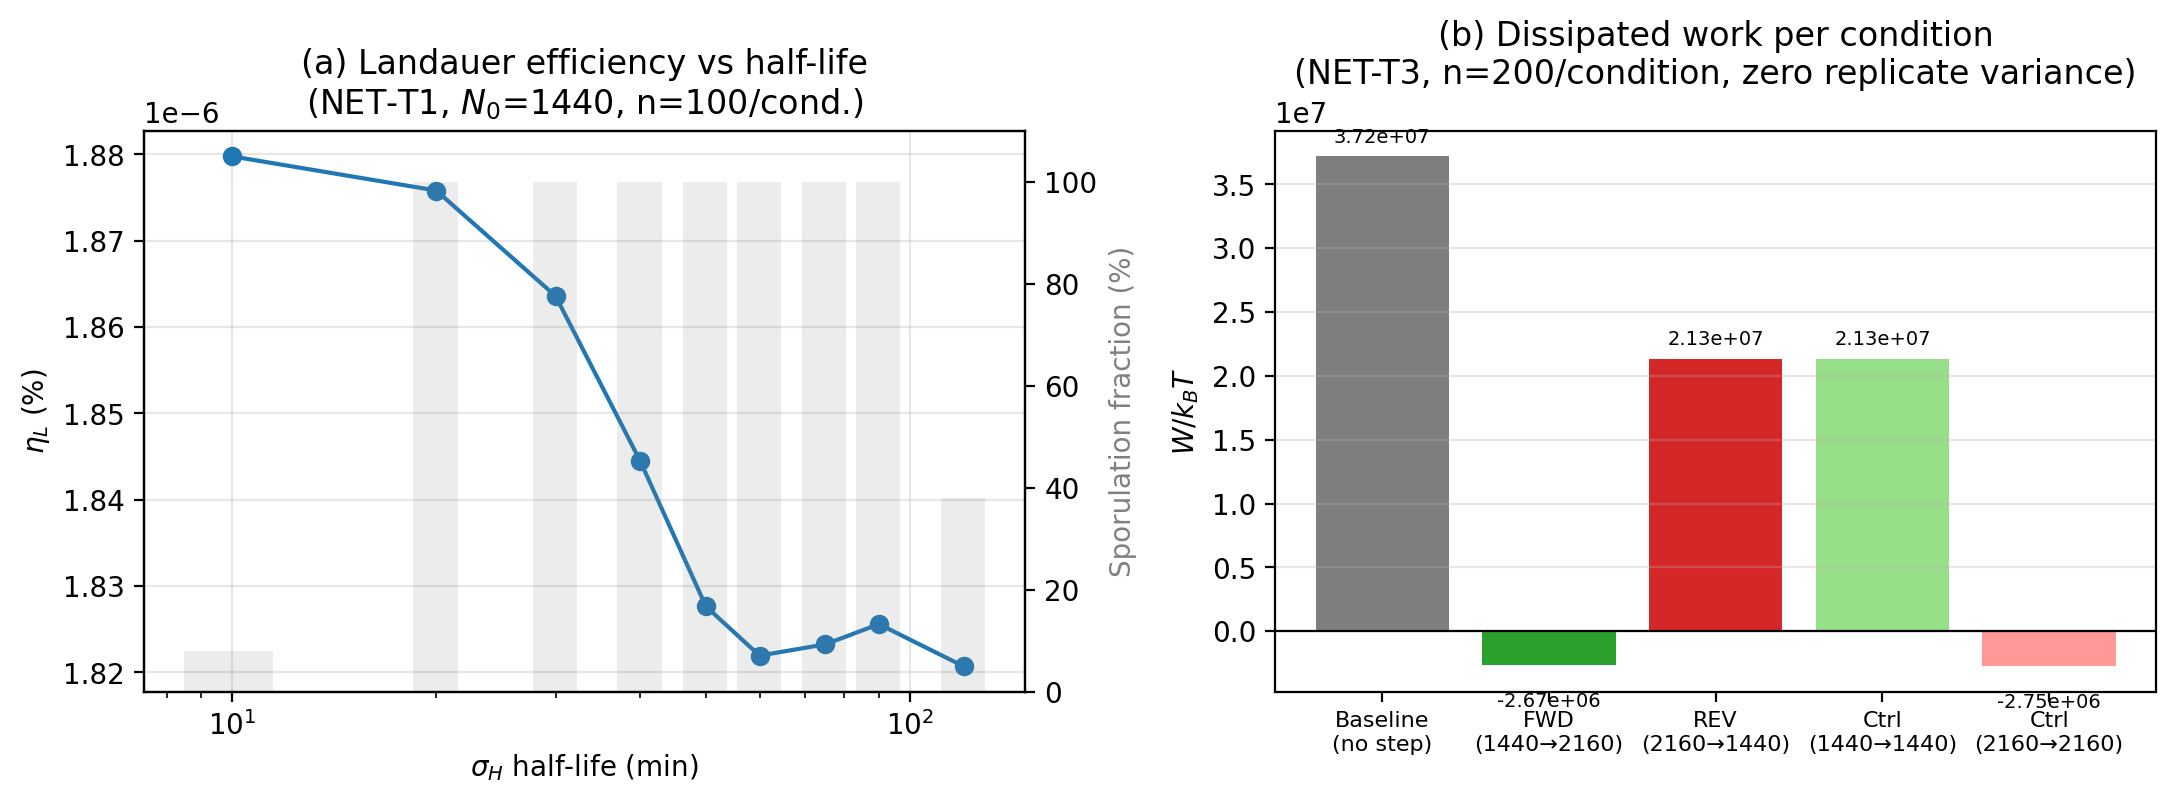
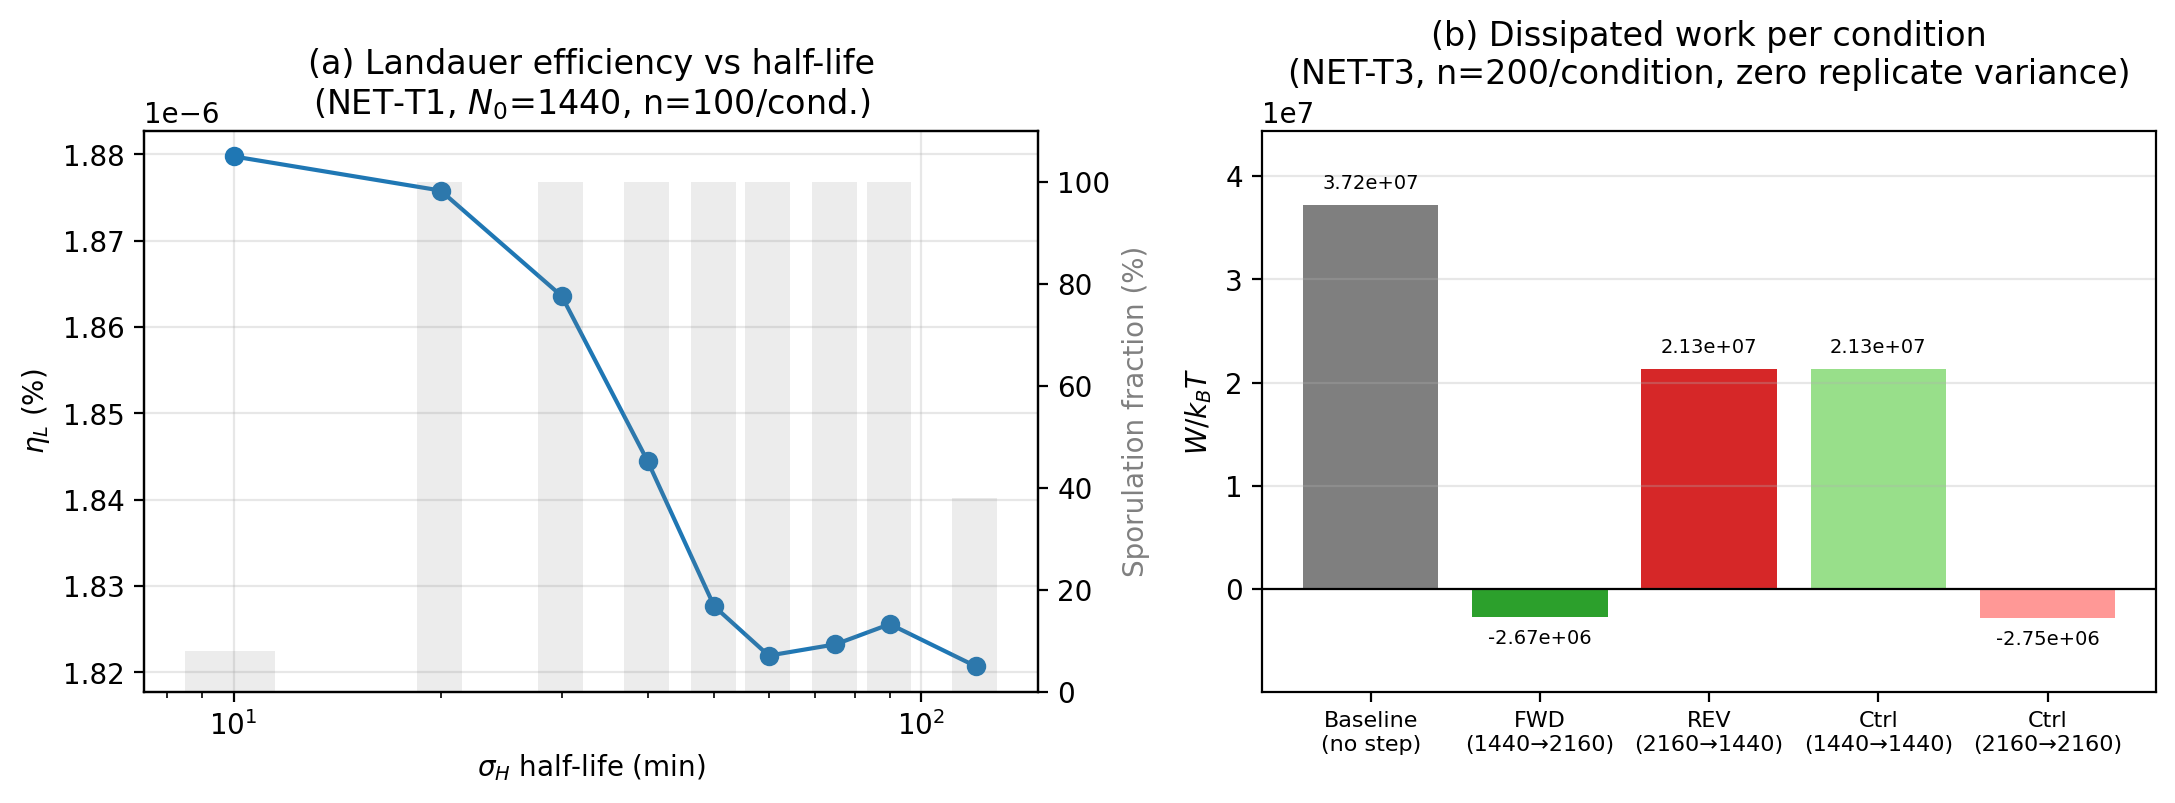
thesis: Figure 5 fix — annotation overflow in panel b
Value labels above/below bars were extending past axis borders. Fixed by
expanding y-limits with 18% padding and repositioning annotations at
3% offset from bar tip with correct vertical alignment (bottom for
positive, top for negative).

diff --git a/workspace/projects/thesis/scripts/plot_fig5_thermo_cost.py b/workspace/projects/thesis/scripts/plot_fig5_thermo_cost.py
@@ -110,10 +110,17 @@ ax2.set_ylabel(r"$W / k_B T$")
 ax2.set_title("(b) Dissipated work per condition\n(NET-T3, n=200/condition, zero replicate variance)")
 ax2.tick_params(axis='x', labelsize=8)
 ax2.grid(alpha=0.3, axis='y')
+
+# Expand y-limits with padding so value annotations stay inside the axes
+y_min = min(W_means); y_max = max(W_means)
+y_range = y_max - y_min
+ax2.set_ylim(y_min - 0.18*y_range, y_max + 0.18*y_range)
+
 for bar, val in zip(bars, W_means):
-    ax2.annotate(f"{val:.2e}", (bar.get_x()+bar.get_width()/2, val),
-                 textcoords="offset points", xytext=(0, 5 if val>=0 else -15),
-                 ha='center', fontsize=7)
+    va = 'bottom' if val >= 0 else 'top'
+    offset = 0.03*y_range if val >= 0 else -0.03*y_range
+    ax2.annotate(f"{val:.2e}", (bar.get_x()+bar.get_width()/2, val+offset),
+                 ha='center', va=va, fontsize=7)
 
 plt.tight_layout()
 OUT.parent.mkdir(parents=True, exist_ok=True)
